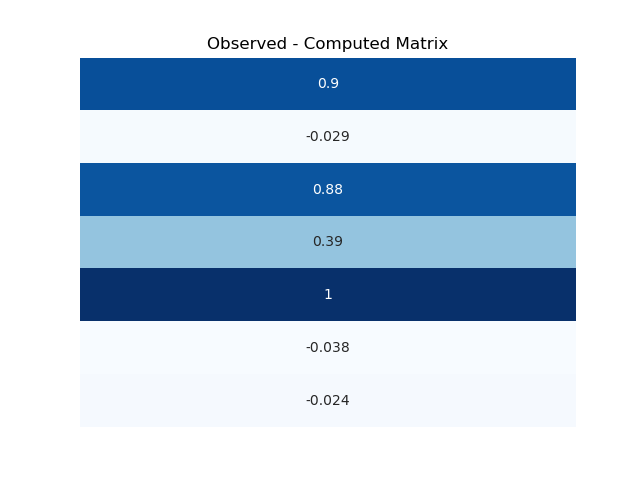
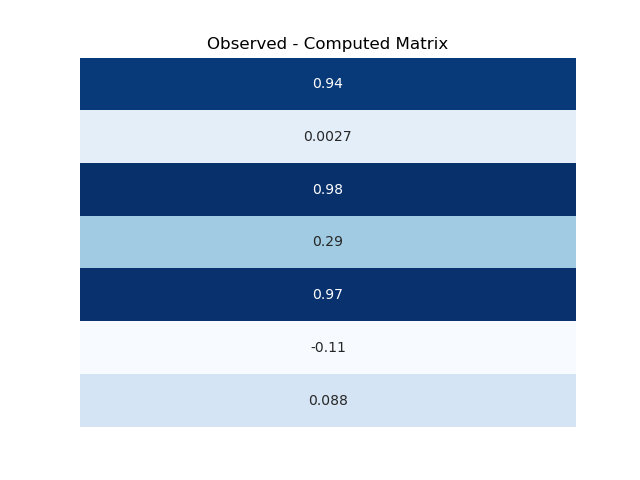
Fix: Variable update.

diff --git a/Computations.py b/Computations.py
@@ -19,7 +19,7 @@ Pillar 3A is treated as the monument.
 """
 
 # X, Y, Z ECEF coordinates for the phase center of the receiver
-pillar_1A_base = np.array([[4929635.400], [-29041.877], [4033567.846]])  # Reference receiver
+pillar_1A_base = np.array([[4929635.440], [-29041.877], [4033567.846]])  # Reference receiver
 
 # Trying to reproduce these coordinates
 pillar_3A_rover = np.array([[4929605.400], [-29123.700], [4033603.800]])  # Monument
@@ -44,7 +44,6 @@ G17 = [5785091.956, 16827408.400, 20125597.869]
 G18 = [13564948.214, -21357948.777, 8232124.013]
 G19 = [12262838.101, 17165601.305, 15682863.092]
 G24 = [15569244.807, -1039249.482, 21443791.252]
-
 
 """
 Use double differenced phase measurements, from the first epoch of data only 2016_11_15_22_19_5
@@ -137,33 +136,33 @@ G19_rover_var = Variance(sat_coords=G19, receiver_coords=pillar_3A_rover, L1=Tru
 G18_base_var = Variance(sat_coords=G18, receiver_coords=pillar_1A_base, L1=True)
 G18_rover_var = Variance(sat_coords=G18, receiver_coords=pillar_3A_rover, L1=True)
 G17_base_var = Variance(sat_coords=G17, receiver_coords=pillar_1A_base, L1=True)
-G17_rover_var = Variance(sat_coords=G17, receiver_coords=pillar_3A_rover,  L1=True)
-G15_base_var = Variance(sat_coords=G15, receiver_coords=pillar_1A_base,  L1=True)
+G17_rover_var = Variance(sat_coords=G17, receiver_coords=pillar_3A_rover, L1=True)
+G15_base_var = Variance(sat_coords=G15, receiver_coords=pillar_1A_base, L1=True)
 G15_rover_var = Variance(sat_coords=G15, receiver_coords=pillar_3A_rover, L1=True)
-G13_base_var = Variance(sat_coords=G13, receiver_coords=pillar_1A_base,  L1=True)
+G13_base_var = Variance(sat_coords=G13, receiver_coords=pillar_1A_base, L1=True)
 G13_rover_var = Variance(sat_coords=G13, receiver_coords=pillar_3A_rover, L1=True)
-G12_base_var = Variance(sat_coords=G12, receiver_coords=pillar_1A_base,  L1=True)
+G12_base_var = Variance(sat_coords=G12, receiver_coords=pillar_1A_base, L1=True)
 G12_rover_var = Variance(sat_coords=G12, receiver_coords=pillar_3A_rover, L1=True)
 G10_base_var = Variance(sat_coords=G10, receiver_coords=pillar_1A_base, L1=True)
 G10_rover_var = Variance(sat_coords=G10, receiver_coords=pillar_3A_rover, L1=True)
 
 elevations_radians = np.array([
-                             [G24_base_var .elevation_calculator()],
-                             [G24_rover_var.elevation_calculator()],
-                             [G19_base_var .elevation_calculator()],
-                             [G19_rover_var.elevation_calculator()],
-                             [G18_base_var .elevation_calculator()],
-                             [G18_rover_var.elevation_calculator()],
-                             [G17_base_var .elevation_calculator()],
-                             [G17_rover_var.elevation_calculator()],
-                             [G15_base_var .elevation_calculator()],
-                             [G15_rover_var.elevation_calculator()],
-                             [G13_base_var .elevation_calculator()],
-                             [G13_rover_var.elevation_calculator()],
-                             [G12_base_var .elevation_calculator()],
-                             [G12_rover_var.elevation_calculator()],
-                             [G10_base_var .elevation_calculator()],
-                             [G10_rover_var.elevation_calculator()]])
+    [G24_base_var.elevation_calculator()],
+    [G24_rover_var.elevation_calculator()],
+    [G19_base_var.elevation_calculator()],
+    [G19_rover_var.elevation_calculator()],
+    [G18_base_var.elevation_calculator()],
+    [G18_rover_var.elevation_calculator()],
+    [G17_base_var.elevation_calculator()],
+    [G17_rover_var.elevation_calculator()],
+    [G15_base_var.elevation_calculator()],
+    [G15_rover_var.elevation_calculator()],
+    [G13_base_var.elevation_calculator()],
+    [G13_rover_var.elevation_calculator()],
+    [G12_base_var.elevation_calculator()],
+    [G12_rover_var.elevation_calculator()],
+    [G10_base_var.elevation_calculator()],
+    [G10_rover_var.elevation_calculator()]])
 
 satelltie_names = np.array([["Base to G19"],
                             ["Rover to G19"],
@@ -186,23 +185,22 @@ satelltie_names = np.array([["Base to G19"],
 elevations_degrees = np.array([degrees(x) for x in elevations_radians])
 
 variance_vector = np.array([
-                             [G24_base_var.variance()],
-                             [G24_rover_var.variance()],
-                             [G19_base_var .variance()],
-                             [G19_rover_var.variance()],
-                             [G18_base_var .variance()],
-                             [G18_rover_var.variance()],
-                             [G17_base_var .variance()],
-                             [G17_rover_var.variance()],
-                             [G15_base_var .variance()],
-                             [G15_rover_var.variance()],
-                             [G13_base_var .variance()],
-                             [G13_rover_var.variance()],
-                             [G12_base_var .variance()],
-                             [G12_rover_var.variance()],
-                             [G10_base_var .variance()],
-                             [G10_rover_var.variance()]])
-
+    [G24_base_var.variance()],
+    [G24_rover_var.variance()],
+    [G19_base_var.variance()],
+    [G19_rover_var.variance()],
+    [G18_base_var.variance()],
+    [G18_rover_var.variance()],
+    [G17_base_var.variance()],
+    [G17_rover_var.variance()],
+    [G15_base_var.variance()],
+    [G15_rover_var.variance()],
+    [G13_base_var.variance()],
+    [G13_rover_var.variance()],
+    [G12_base_var.variance()],
+    [G12_rover_var.variance()],
+    [G10_base_var.variance()],
+    [G10_rover_var.variance()]])
 
 # 16 x 8:  Differencing matrix
 S = np.array([[1, -1, 0, 0, 0, 0, 0, 0, 0, 0, 0, 0, 0, 0, 0, 0],
@@ -222,6 +220,7 @@ D = np.array([[1, -1, 0, 0, 0, 0, 0, 0],
               [1, 0, 0, 0, 0, 0, -1, 0],
               [1, 0, 0, 0, 0, 0, 0, -1]])
 
+
 # DSCl(DS)^T
 def Cd_calculator(D, S, Cl):
     return (((D.dot(S)).dot(Cl)).dot(transpose((D.dot(S)))))
@@ -234,13 +233,8 @@ def calculate_x_hat(A, W, b):
 def ATWA(A, W):
     return ((transpose(A)).dot(W)).dot(A)
 
+
 if __name__ == "__main__":
-
-    a = np.array([["s"], [2], [3]])
-    b = np.array([[2], [3], [4]])
-    c = np.hstack((a,b))
-    print(c)
-
 
     flipped_vector_heatmap(variance_vector, "Variances")
     flipped_vector_heatmap(elevations_radians, "Radians")
@@ -262,7 +256,6 @@ if __name__ == "__main__":
     matrix_heatmap(S, "Single Differencing (S)")
 
     matrix_heatmap(D, "Double Differencing (D)")
-
 
     """
     SINGLE DIFFERENCING
@@ -298,7 +291,6 @@ if __name__ == "__main__":
 
     flipped_vector_heatmap(Dsl, "Double differences (Dsl)")
 
-
     """
     Covariance matrix of the observation vector.
     This is an identity matrix scaled by the variance.
@@ -308,7 +300,7 @@ if __name__ == "__main__":
     DIM: 16 x 16 
     """
 
-    cl = np.eye(16, 16) * (1/wl * variance_vector)   # back to cycles
+    cl = np.eye(16, 16) * (1 / wl * variance_vector)  # back to cycles
     matrix_heatmap(cl, "Covariance matrix of observations (cl)")
 
     """
@@ -365,7 +357,6 @@ if __name__ == "__main__":
     G24G10 = DD(ref_station=pillar_1A_base, rov_station=pillar_3A_rover, corresponding_sat=G10, sat_ref=G24,
                 observed=DD_s_p_a[6])
 
-
     """
     Calculate the b vector:
     This is the observed double differencing measurements - the computed.  
@@ -380,7 +371,6 @@ if __name__ == "__main__":
 
     vector_heatmap(b, "Observed - Computed")
 
-
     # Populate the design matrix
     A = np.array([[G24G19.x_diff(), G24G19.y_diff(), G24G19.z_diff()],
                   [G24G18.x_diff(), G24G18.y_diff(), G24G18.z_diff()],
@@ -391,7 +381,6 @@ if __name__ == "__main__":
                   [G24G10.x_diff(), G24G10.y_diff(), G24G10.z_diff()]])
 
     matrix_heatmap(A, "Design (A)")
-
 
     """
     Output the ATWA matrix 
@@ -429,15 +418,6 @@ if __name__ == "__main__":
                     (point_2[1] - point_1[1]) ** 2 +
                     (point_2[2] - point_1[2]) ** 2)
 
+
     print(distance(pillar_1A_base, pillar_3A_rover))
     print(distance(pillar_1A_base, pillar_3A_rover + x_hat))
-
-
-
-
-
-
-
-
-
-

diff --git a/Matrix_Computation_Classes.py b/Matrix_Computation_Classes.py
@@ -4,8 +4,8 @@ import seaborn as sns
 from math import sqrt, sin, degrees, acos, radians
 from typing import List
 
+
 class DD:
-    
     """"
     ref_station - Earth centric Cartesian Coordinates of the reference station [X, Y, Z]
     corresponding_sat - Earth centric cartesian Coordinates of the corresponding station [X, Y, Z]
@@ -20,18 +20,18 @@ class DD:
     """""
 
     def __init__(self, ref_station: List[float] = None,
-                       rov_station: List[float] = None,
-                       corresponding_sat: List[float] = None,
-                       sat_ref: List[float] = None,
-                       L1: bool = True,
-                       L2: bool = False,
-                       observed: float = None):
+                 rov_station: List[float] = None,
+                 corresponding_sat: List[float] = None,
+                 sat_ref: List[float] = None,
+                 L1: bool = True,
+                 L2: bool = False,
+                 observed: float = None):
 
         # Speed of light m/s
         c: float = 299792458.0
 
         # Signal frequency of L1 (MHz)
-        L1_f: float= 1575.42 * 1000000
+        L1_f: float = 1575.42 * 1000000
 
         # Signal frequency of L2
         L2_f: float = 1227.6 * 1000000
@@ -46,7 +46,6 @@ class DD:
         # Error check the arguments
         assert len(ref_station) == len(rov_station) == len(corresponding_sat) == len(sat_ref)
         assert L1 != L2
-
 
         # Compute ranges from satellite coordinates
         brrs: float = self.distance(ref_station, sat_ref)
@@ -73,7 +72,6 @@ class DD:
         self.brcs = brcs
         self.rrcs = rrcs
         self.observed = observed
-
 
     def x_diff(self) -> float:
         return float(1 / self.wl * \
@@ -131,13 +129,11 @@ class DD:
                     (point_2[2] - point_1[2]) ** 2)
 
 
-
 class Variance:
 
     def __init__(self, sat_coords: List[float],
-                       receiver_coords: List[float],
-                       L1: bool == True):
-
+                 receiver_coords: List[float],
+                 L1: bool == True):
         if L1:
             l1_std = 0.003
 
@@ -148,7 +144,6 @@ class Variance:
         self.receiver_coords = receiver_coords
 
     def elevation_calculator(self) -> float:
-
         """"
         This method calculates the satellite angle of elevation in the following stages:
         Calculates the distance of receiver to the satellite (m) using pythagoras theorem.
@@ -164,7 +159,7 @@ class Variance:
         x_r, y_r, z_r = self.receiver_coords[0], self.receiver_coords[1], self.receiver_coords[2]
 
         # Distance from receiver to satellite (m)
-        r_s = sqrt((x_s - x_r)**2 + (y_s - y_r)**2 + (z_s - z_r)**2)
+        r_s = sqrt((x_s - x_r) ** 2 + (y_s - y_r) ** 2 + (z_s - z_r) ** 2)
 
         # Distance from earth center to satellite (m)
         ec_s = sqrt((sqrt(x_s ** 2 + y_s ** 2)) ** 2 + z_s ** 2)
@@ -176,7 +171,7 @@ class Variance:
         angle_radians = radians((degrees(acos((ec_r ** 2 + r_s ** 2 - ec_s ** 2) / (2 * ec_r * r_s)))) - 90)
 
         return angle_radians
-    
+
     def variance(self):
         """""
         This method then calculates the variance of the satellite at the calculated angle.
@@ -184,7 +179,7 @@ class Variance:
         """""
         # Variance (uncertainty associated with the satellite) (m)
         variance = (self.l1_std ** 2) / (sin(self.elevation_calculator()))
-        
+
         return variance
 
 
@@ -199,6 +194,7 @@ class MatrixOperations:
     W - Weight matrix
     b - B (innovation vector?)
     """""
+
     def __init__(self, D=None, S=None, Cl=None, A=None, W=None, b=None):
         self.D = D
         self.S = S
@@ -216,7 +212,8 @@ class MatrixOperations:
     def calculate_x_hat(self):
         try:
             return \
-                ((linalg.inv((transpose(self.A).dot(self.W)).dot(self.A))).dot(transpose(self.A).dot(self.W))).dot(self.b)
+                ((linalg.inv((transpose(self.A).dot(self.W)).dot(self.A))).dot(transpose(self.A).dot(self.W))).dot(
+                    self.b)
         except IOError:
             print("Calculate_x_hat failed")
 
@@ -238,6 +235,7 @@ def matrix_heatmap(matrix, name: str) -> None:
     plt.savefig(f"Matrices/{name} Matrix")
     plt.show()
 
+
 def vector_heatmap(matrix, name: str):
     sns.heatmap(matrix,
                 annot=True,
@@ -249,18 +247,16 @@ def vector_heatmap(matrix, name: str):
     plt.savefig(f"Vectors/{name} Vector")
     plt.show()
 
+
 def flipped_vector_heatmap(data, name: str):
     vec2 = data.reshape(data.shape[0], 1)
     ax = sns.heatmap((vec2),
-                annot=True,
-                xticklabels=False,
-                yticklabels=False,
-                cmap="Blues",
-                cbar=False,
-                fmt='g')
+                     annot=True,
+                     xticklabels=False,
+                     yticklabels=False,
+                     cmap="Blues",
+                     cbar=False,
+                     fmt='g')
     plt.title(f"{name} Vector")
     plt.savefig(f"Vectors/{name} Vector")
     plt.show()
-
-
-
